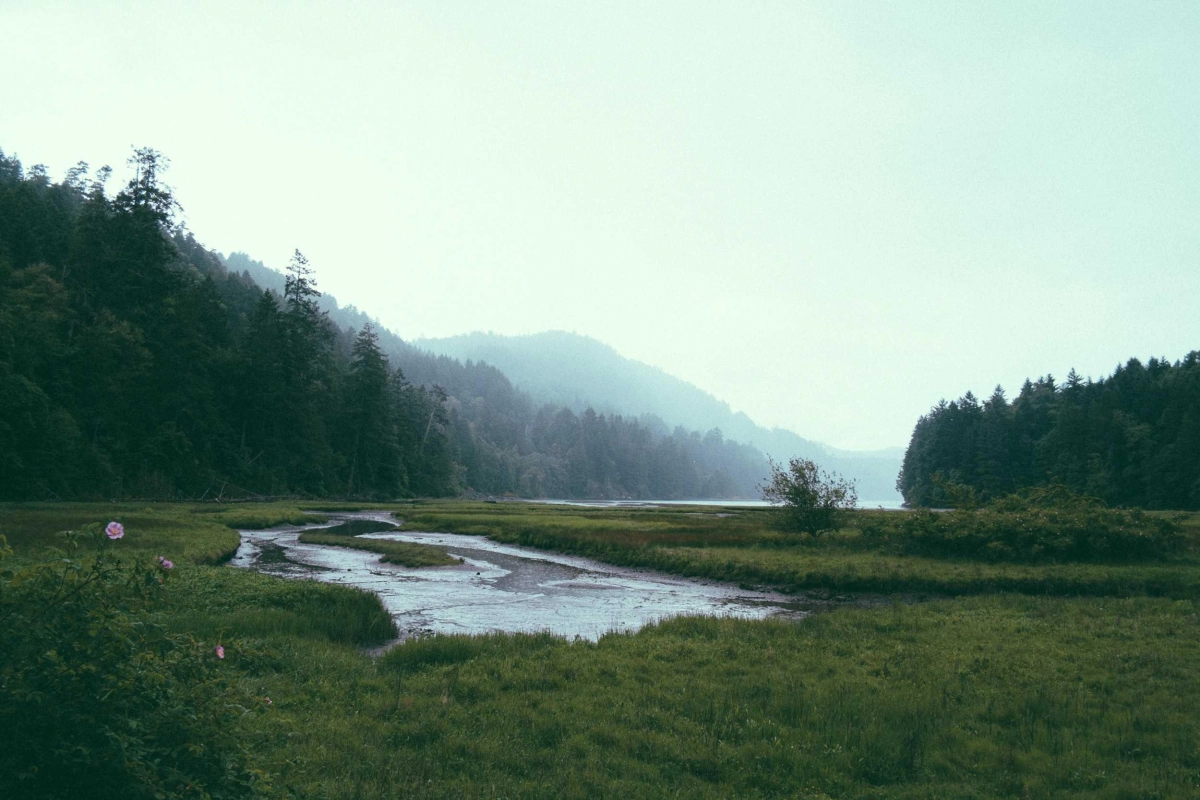
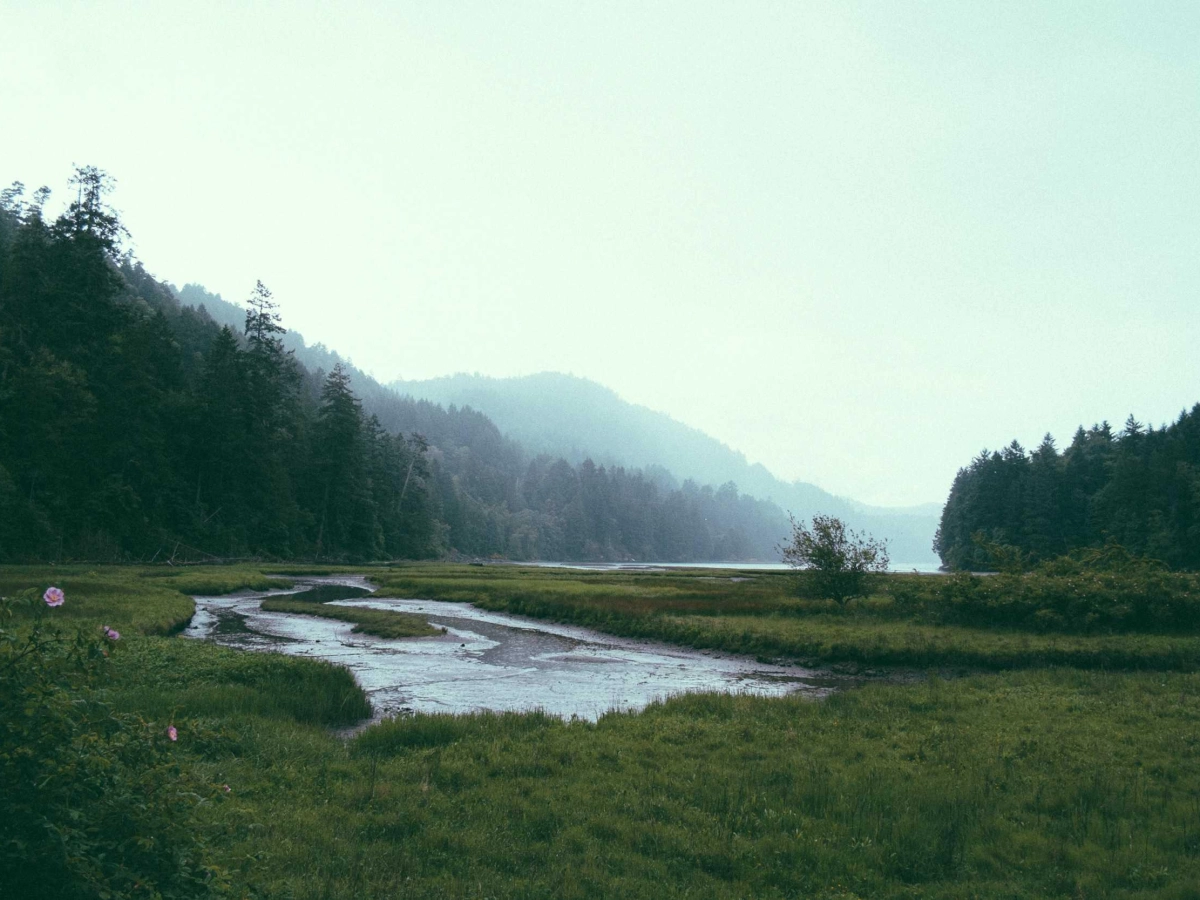
feat/Ajout du crop

diff --git a/admin/product/process.php b/admin/product/process.php
@@ -52,57 +52,54 @@ if (isset($_POST["formCU"]) && $_POST["formCU"] == "ok") {
         // On va redimensionner l'image
         // Récupération des dimensions de l'image
         foreach (IMG_CONFIG as $prefix => $info) {
+            $filePath = $path . $filename . "." . $extension;
+            $srcSize = getimagesize($filePath);
+            $srcWidth = $srcSize[0];
+            $srcHeight = $srcSize[1];
 
-            $src = getimagesize($path . $filename . "." . $extension);
-            $srcWidth = $src[0];
-            $srcHeight = $src[1];
-
-            // Taille maximale de notre image finale
             $destWidth = $info['width'];
             $destHeight = $info['height'];
 
-            // Gestion des différents formats de l'image
-            $ratio = $srcWidth / $srcHeight;
+            $ratioSrc = $srcWidth / $srcHeight;
+            $ratioDest = $destWidth / $destHeight;
 
-            if ($ratio > 1) {
-                $destHeight = round($destWidth / $ratio);
-                if($info['width']>= $srcWidth){
-                    $destWidth=$srcWidth;
-                    $destHeight=$srcHeight;
-                }
+            if ($ratioSrc > $ratioDest) {
+                // L'image source est plus large que nécessaire, on ajuste la largeur
+                $newHeight = $srcHeight;
+                $newWidth = round($srcHeight * $ratioDest);
+                $srcX = round(($srcWidth - $newWidth) / 2);
+                $srcY = 0;
             } else {
-                $destWidth = round($destHeight * $ratio);
-                if($info['height']>= $srcHeight){
-                    $destWidth=$srcWidth;
-                    $destHeight=$srcHeight;
-                }
+                // L'image source est plus haute que nécessaire, on ajuste la hauteur
+                $newWidth = $srcWidth;
+                $newHeight = round($srcWidth / $ratioDest);
+                $srcX = 0;
+                $srcY = round(($srcHeight - $newHeight) / 2);
             }
-
-            // Initialisation des sources des images
-            $srcX = 0;
-            $srcY = 0;
-            $destX = 0;
-            $destY = 0;
 
             // Création de l'image de destination
             $dest = imagecreatetruecolor($destWidth, $destHeight);
 
-            // On charge l'image source
-            $imagecreatefromCustom = "imagecreatefrom" . str_replace("jpg", "jpeg", $extension);
-            $src = $imagecreatefromCustom($path . $filename . "." . $extension);
+            // Chargement de l'image source
+            $imagecreatefrom = "imagecreatefrom" . str_replace("jpg", "jpeg", $extension);
+            $src = $imagecreatefrom($filePath);
 
-            // Chargement de l'image source dans l'image de destination
-            imagecopyresampled($dest, $src, $destX, $destY, $srcX, $srcY, $destWidth, $destHeight, $srcWidth, $srcHeight);
+            // Redimensionnement et crop
+            imagecopyresampled($dest, $src, 0, 0, $srcX, $srcY, $destWidth, $destHeight, $newWidth, $newHeight);
 
-            // Enregistrement de l'image finale au format webp dans le dossier de destination
-            imagewebp($dest,  $path . $prefix . "_" . $filename . ".webp", 100);
+            // Enregistrement en WebP
+            imagewebp($dest, $path . $prefix . "_" . $filename . ".webp", 100);
+
+            // Nettoyage
+            imagedestroy($dest);
+            imagedestroy($src);
         }
 
-
-        // On supprime l'image temporaire originale pour libérer de l'espace
-        if (file_exists($path . $filename . "." . $extension)) {
-            unlink($path . $filename . "." . $extension);
+        // Suppression de l'image originale
+        if (file_exists($filePath)) {
+            unlink($filePath);
         }
+
     }
     ;
 
